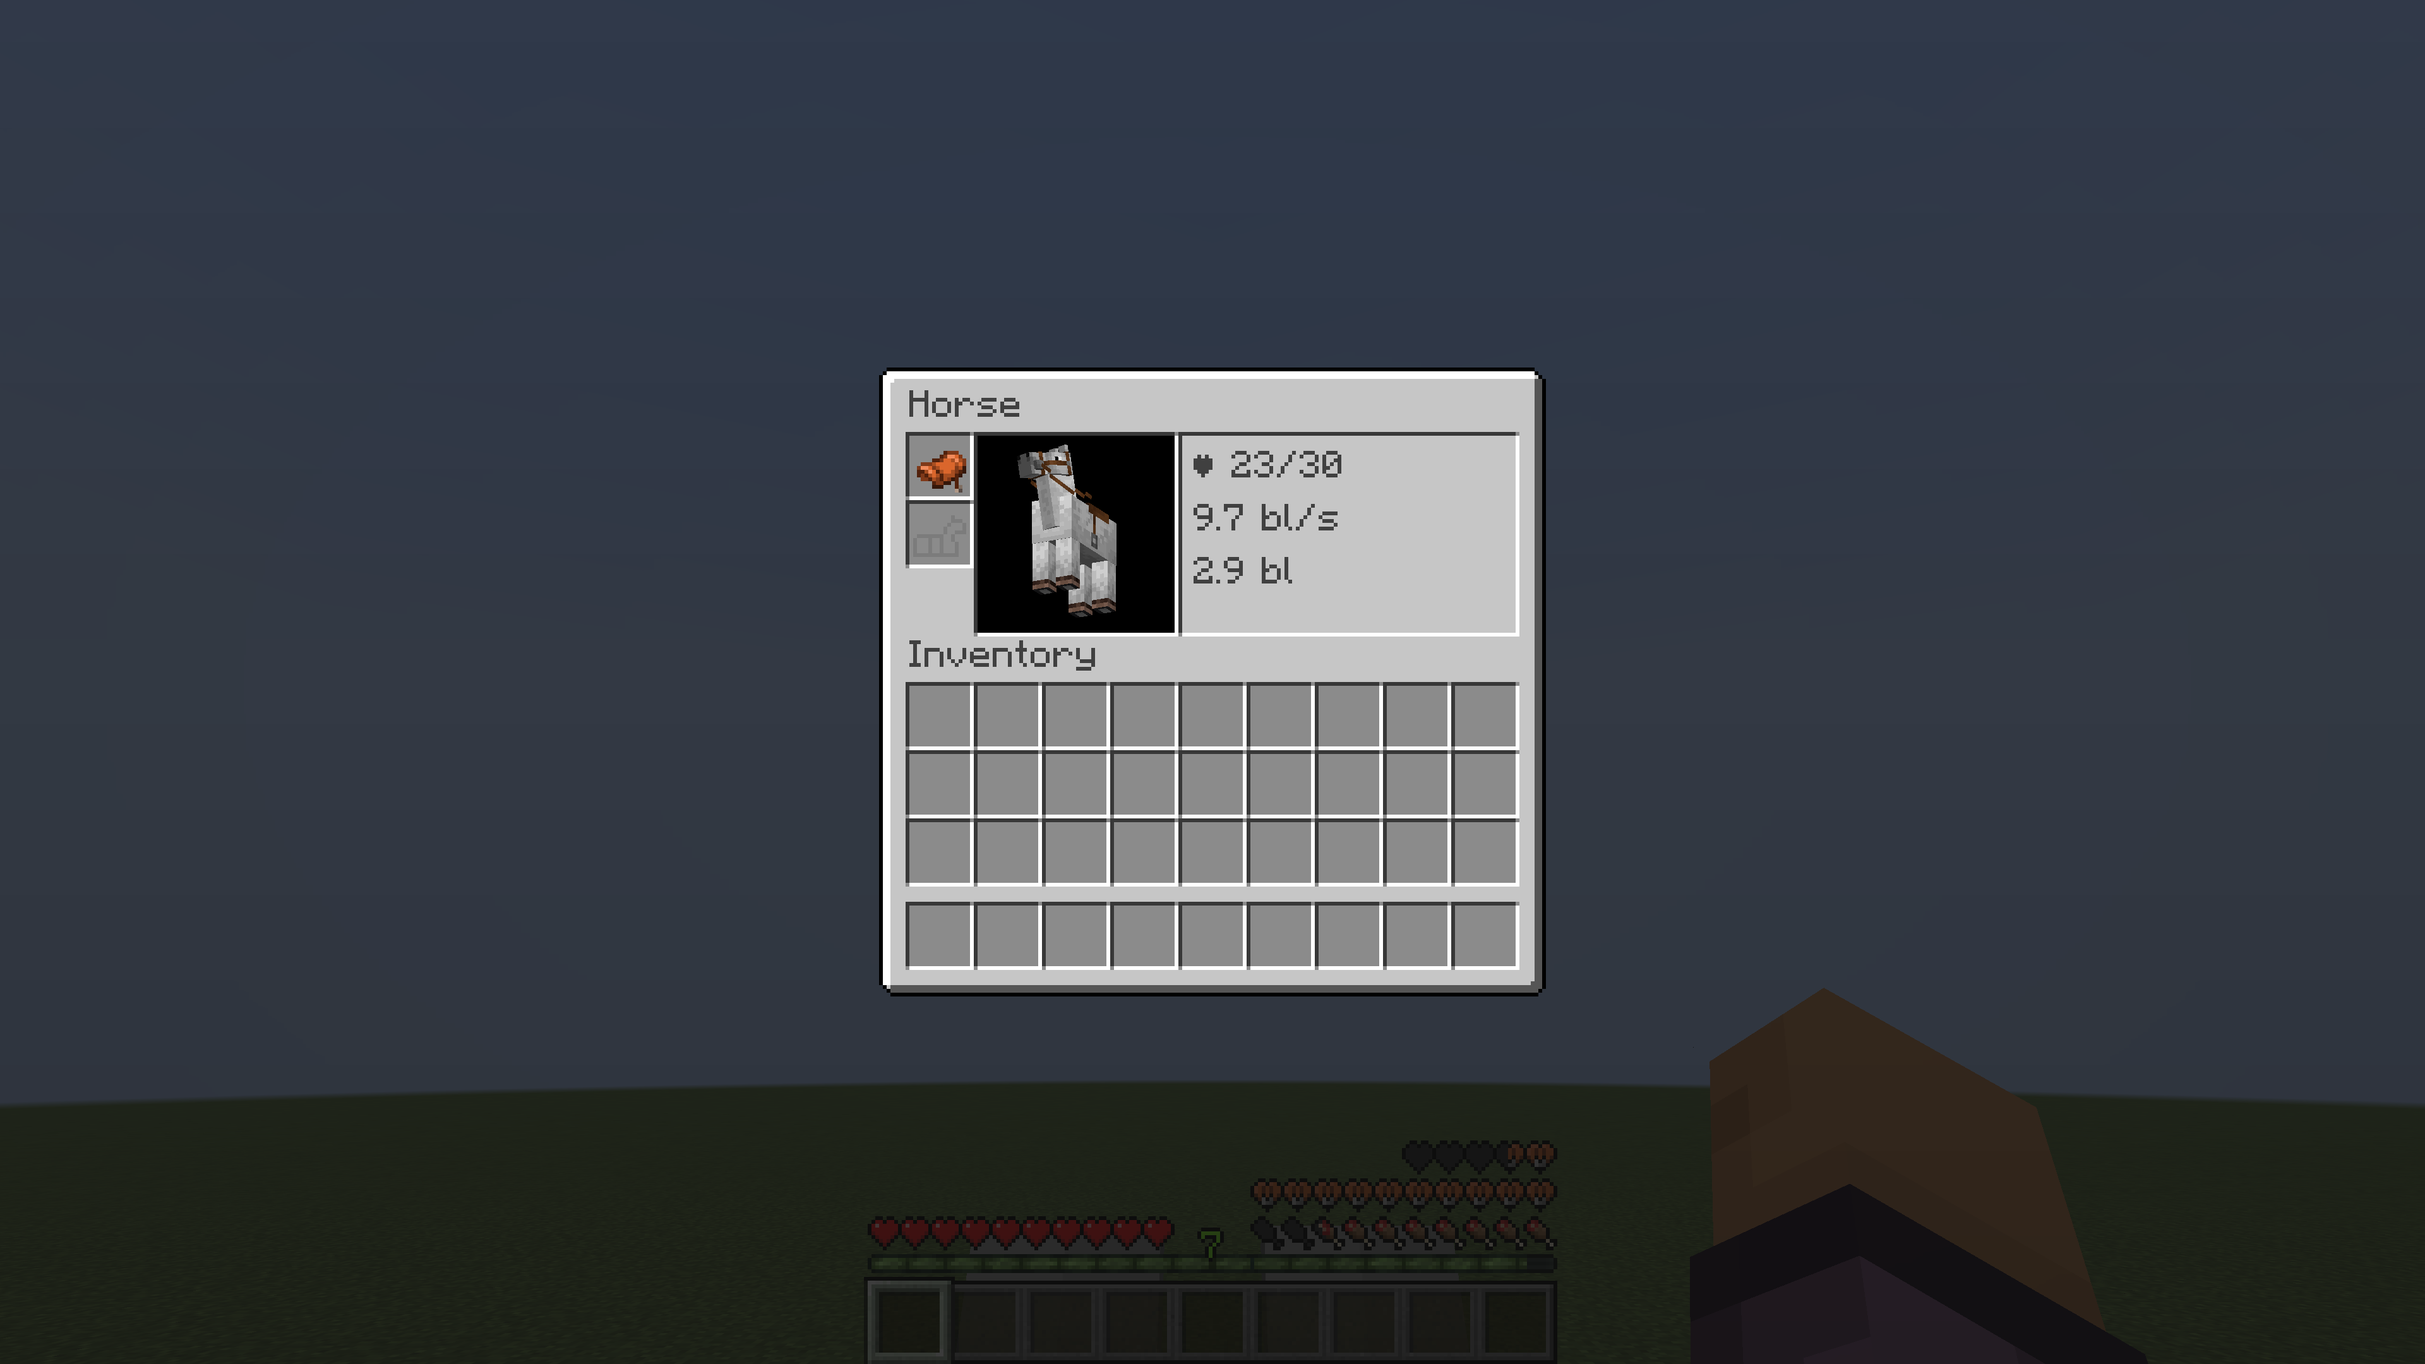
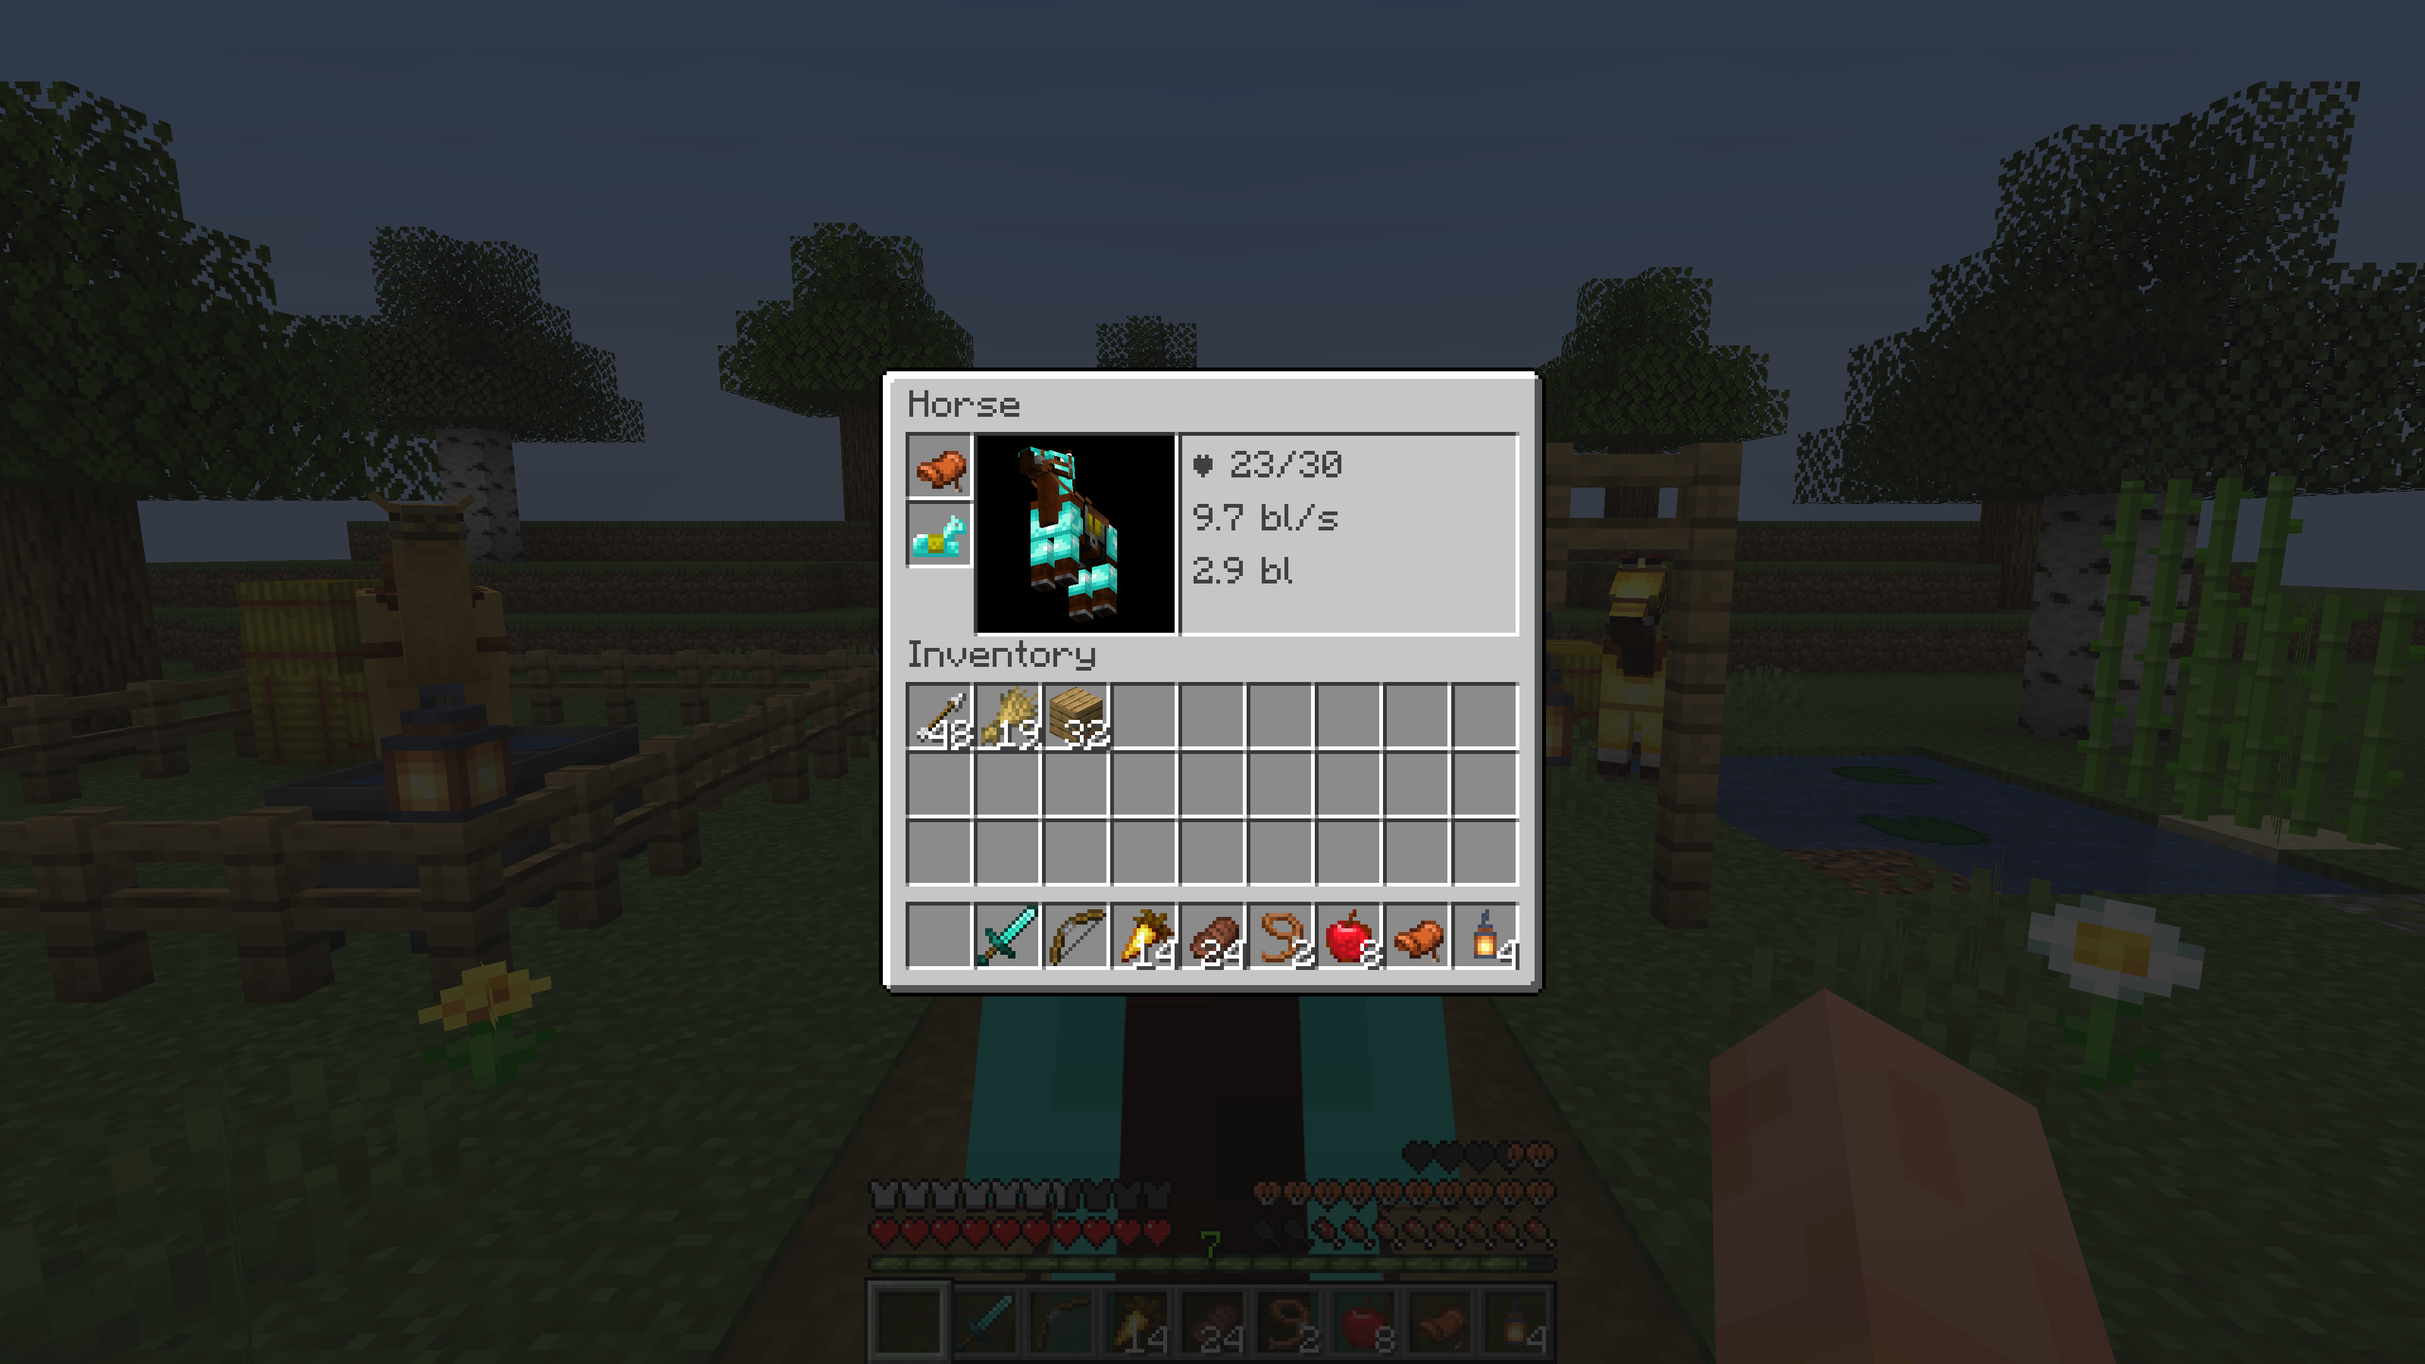
Improve store screenshots with survival scene and HUD stats

diff --git a/fabric/src/gametest/java/com/kasper/mounthud/gametest/MountHudGameTest.java b/fabric/src/gametest/java/com/kasper/mounthud/gametest/MountHudGameTest.java
@@ -37,7 +37,7 @@ public final class MountHudGameTest implements FabricClientGameTest {
     private static final List<String> TRANSLATIONS = List.of(
             "de_de", "es_es", "fr_fr", "it_it", "ja_jp", "ko_kr", "pl_pl", "pt_br", "tr_tr", "uk_ua", "zh_cn");
     /** The horse has 30 health (two rows of mount hearts), 0.225 speed (9.7 bl/s) and 0.7 jump strength (2.9 bl). */
-    private static final String HORSE = "minecraft:horse 0.5 -60 2.5 {Tame:1b,Health:23f,"
+    private static final String HORSE = "minecraft:horse 0.5 -60 2.5 {Tame:1b,Variant:3,Rotation:[0f,0f],Health:23f,"
             + "attributes:[{id:\"minecraft:max_health\",base:30d},"
             + "{id:\"minecraft:movement_speed\",base:0.225d},"
             + "{id:\"minecraft:jump_strength\",base:0.7d}],"
@@ -113,6 +113,8 @@ public final class MountHudGameTest implements FabricClientGameTest {
 
     private void left(ClientGameTestContext context, TestServerContext server, String prefix) {
         server.runCommand("item replace entity @a armor.chest with minecraft:iron_chestplate");
+        server.runCommand("item replace entity @a armor.legs with minecraft:iron_leggings");
+        server.runCommand("item replace entity @a armor.feet with minecraft:iron_boots");
         context.waitTicks(3);
         apply(context, s -> s.heartsPosition = HeartsPosition.LEFT);
         BufferedImage modded = shot(context, prefix + "left");
@@ -122,6 +124,8 @@ public final class MountHudGameTest implements FabricClientGameTest {
         apply(context, s -> s.enabled = false);
         BufferedImage vanilla = shot(context, prefix + "left_vanilla");
         server.runCommand("item replace entity @a armor.chest with minecraft:air");
+        server.runCommand("item replace entity @a armor.legs with minecraft:air");
+        server.runCommand("item replace entity @a armor.feet with minecraft:air");
         expect(row.hearts(modded) > row.minHearts(), "no mount hearts above the armor (" + row.hearts(modded) + " heart pixels)");
         expect(row.hearts(vanilla) < row.minHearts(), "the vanilla HUD has hearts above the armor, the check looks at the wrong place");
     }
@@ -192,35 +196,160 @@ public final class MountHudGameTest implements FabricClientGameTest {
 
     /** The pictures for the project pages, 3840x2160 at a large GUI scale so the HUD reads at a glance. */
     private void storeScreenshots(ClientGameTestContext context, TestServerContext server) {
+        context.runOnClient(mc -> mc.options.renderDistance().set(8));
+        buildStoreScene(server);
         context.getInput().resizeWindow(3840, 2160);
-        context.runOnClient(mc -> TestCompat.guiScale(mc, STORE_GUI_SCALE));
-        context.waitTicks(5);
-        apply(context, s -> s.heartsPosition = HeartsPosition.ABOVE_HUNGER);
+        context.runOnClient(mc -> {
+            TestCompat.guiScale(mc, STORE_GUI_SCALE);
+            mc.player.setYRot(0);
+            mc.player.setXRot(8);
+        });
+        context.waitTicks(20);
+
+        apply(context, s -> {
+            s.heartsPosition = HeartsPosition.ABOVE_HUNGER;
+            s.mountStats = MountStatsMode.HUD_AND_INVENTORY;
+        });
         shot(context, "store_above_hunger");
+
         context.getInput().holdKey(options -> options.keyJump);
         context.waitTicks(8);
         shot(context, "store_jump_bar");
         context.getInput().releaseKey(options -> options.keyJump);
         context.waitTicks(30);
-        server.runCommand("item replace entity @a armor.chest with minecraft:iron_chestplate");
+
+        context.runOnClient(mc -> {
+            mc.player.setYRot(0);
+            mc.player.setXRot(8);
+        });
+        context.waitTicks(2);
         apply(context, s -> s.heartsPosition = HeartsPosition.LEFT);
         shot(context, "store_left");
-        server.runCommand("item replace entity @a armor.chest with minecraft:air");
+
         apply(context, s -> s.enabled = false);
         shot(context, "store_vanilla");
+
+        server.runCommand("item replace entity @e[type=minecraft:horse,limit=1] armor.body with minecraft:diamond_horse_armor");
         apply(context, s -> { });
         context.runOnClient(mc -> mc.player.sendOpenInventory());
         context.waitFor(mc -> TestCompat.screen(mc) instanceof HorseInventoryScreen, 200);
-        context.waitTicks(2);
+        context.waitTicks(3);
         context.takeScreenshot("store_inventory");
         context.runOnClient(mc -> mc.player.closeContainer());
-        context.waitTicks(2);
+        server.runCommand("item replace entity @e[type=minecraft:horse,limit=1] armor.body with minecraft:air");
+        context.waitTicks(3);
+
         context.setScreen(() -> new SettingsScreen(null));
         context.takeScreenshot("store_settings");
         context.setScreen(() -> null);
         context.runOnClient(mc -> TestCompat.guiScale(mc, 0));
         context.getInput().resizeWindow(854, 480);
         context.waitTicks(2);
+    }
+
+    /** Builds a countryside road, paddock, pond, trees and hills in front of the player for store screenshots. */
+    private static void buildStoreScene(TestServerContext server) {
+        server.runCommand("item replace entity @a armor.chest with minecraft:iron_chestplate");
+        server.runCommand("item replace entity @a armor.legs with minecraft:iron_leggings");
+        server.runCommand("item replace entity @a armor.feet with minecraft:iron_boots");
+
+        // Rolling hills on the horizon (z = 22..42) with staggered grass edges so the skyline looks organic
+        server.runCommand("fill 4 -60 23 26 -60 39 minecraft:grass_block");
+        server.runCommand("fill 7 -60 21 19 -60 23 minecraft:grass_block");
+        server.runCommand("fill 6 -59 25 24 -59 37 minecraft:grass_block");
+        server.runCommand("fill 9 -59 23 17 -59 25 minecraft:grass_block");
+        server.runCommand("fill 9 -58 27 21 -58 35 minecraft:grass_block");
+
+        server.runCommand("fill -26 -60 23 -4 -60 39 minecraft:grass_block");
+        server.runCommand("fill -18 -60 21 -7 -60 23 minecraft:grass_block");
+        server.runCommand("fill -24 -59 25 -6 -59 37 minecraft:grass_block");
+        server.runCommand("fill -16 -59 23 -9 -59 25 minecraft:grass_block");
+        server.runCommand("fill -20 -58 27 -9 -58 35 minecraft:grass_block");
+
+        server.runCommand("fill -6 -60 27 6 -60 40 minecraft:grass_block");
+        server.runCommand("fill -4 -59 30 4 -59 38 minecraft:grass_block");
+
+        // Winding country road heading South (+Z)
+        server.runCommand("fill -1 -61 0 1 -61 15 minecraft:dirt_path");
+        server.runCommand("fill -2 -61 13 0 -61 26 minecraft:dirt_path");
+        server.runCommand("setblock 0 -61 7 minecraft:coarse_dirt");
+        server.runCommand("setblock -1 -61 10 minecraft:coarse_dirt");
+        server.runCommand("setblock 1 -61 12 minecraft:mossy_cobblestone");
+        server.runCommand("setblock -1 -61 16 minecraft:coarse_dirt");
+        server.runCommand("setblock -2 -61 20 minecraft:mossy_cobblestone");
+
+        // Left side (+X): oak fence paddock with hay bales, water trough and a saddled camel
+        server.runCommand("fill 4 -60 7 11 -60 15 minecraft:oak_fence replace minecraft:air");
+        server.runCommand("fill 5 -60 8 10 -60 14 minecraft:air");
+        server.runCommand("setblock 4 -60 10 minecraft:oak_fence_gate[facing=west,open=false]");
+        server.runCommand("setblock 4 -59 7 minecraft:lantern");
+        server.runCommand("setblock 4 -59 15 minecraft:lantern");
+        server.runCommand("setblock 11 -59 7 minecraft:lantern");
+        server.runCommand("setblock 5 -60 8 minecraft:water_cauldron[level=3]");
+        server.runCommand("setblock 5 -60 9 minecraft:water_cauldron[level=3]");
+        server.runCommand("setblock 9 -60 13 minecraft:hay_block[axis=y]");
+        server.runCommand("setblock 10 -60 13 minecraft:hay_block[axis=x]");
+        server.runCommand("setblock 10 -59 13 minecraft:hay_block[axis=y]");
+        server.runCommand("setblock 10 -60 14 minecraft:hay_block[axis=z]");
+        server.runCommand("summon minecraft:camel 7.5 -60 11.2 {NoAI:1b,Tame:1b,Rotation:[140f,4f],"
+                + "SaddleItem:{id:\"minecraft:saddle\",count:1},equipment:{saddle:{id:\"minecraft:saddle\",count:1}}}");
+
+        // Right side (-X): roadside lamp post, small pond with sugar cane, barrel, hay bales and a second horse
+        server.runCommand("fill -3 -60 8 -3 -58 8 minecraft:oak_fence");
+        server.runCommand("setblock -2 -58 8 minecraft:oak_fence");
+        server.runCommand("setblock -2 -59 8 minecraft:lantern[hanging=true]");
+        server.runCommand("fill -8 -61 9 -5 -61 13 minecraft:water");
+        server.runCommand("setblock -6 -60 10 minecraft:lily_pad");
+        server.runCommand("setblock -7 -60 12 minecraft:lily_pad");
+        server.runCommand("setblock -8 -61 8 minecraft:mossy_cobblestone");
+        server.runCommand("setblock -5 -61 9 minecraft:coarse_dirt");
+        server.runCommand("setblock -9 -61 10 minecraft:sand");
+        server.runCommand("fill -9 -60 10 -9 -59 10 minecraft:sugar_cane");
+        server.runCommand("fill -9 -60 11 -9 -58 11 minecraft:sugar_cane");
+        server.runCommand("setblock -4 -60 15 minecraft:barrel[facing=up]");
+        server.runCommand("setblock -5 -60 15 minecraft:hay_block[axis=y]");
+        server.runCommand("setblock -5 -60 16 minecraft:hay_block[axis=z]");
+        server.runCommand("summon minecraft:horse -4.2 -60 12.8 {NoAI:1b,Tame:1b,Variant:258,Rotation:[-145f,4f],"
+                + "SaddleItem:{id:\"minecraft:saddle\",count:1},equipment:{saddle:{id:\"minecraft:saddle\",count:1},"
+                + "body:{id:\"minecraft:golden_horse_armor\",count:1}}}");
+
+        // Trees framing the scene on both sides and on the background hills
+        plantTree(server, 13, -60, 13, "minecraft:oak_log", "minecraft:oak_leaves[persistent=true]");
+        plantTree(server, -11, -60, 14, "minecraft:birch_log", "minecraft:birch_leaves[persistent=true]");
+        plantTree(server, 9, -57, 28, "minecraft:oak_log", "minecraft:oak_leaves[persistent=true]");
+        plantTree(server, 17, -58, 25, "minecraft:birch_log", "minecraft:birch_leaves[persistent=true]");
+        plantTree(server, -11, -58, 28, "minecraft:oak_log", "minecraft:oak_leaves[persistent=true]");
+        plantTree(server, -18, -59, 24, "minecraft:oak_log", "minecraft:oak_leaves[persistent=true]");
+        plantTree(server, 2, -58, 33, "minecraft:birch_log", "minecraft:birch_leaves[persistent=true]");
+
+        // Wildflowers and meadow grass
+        int[][] grassSpots = {
+                {3, 5}, {2, 9}, {3, 12}, {2, 16}, {4, 18}, {6, 19}, {8, 18},
+                {-3, 6}, {-4, 7}, {-3, 11}, {-3, 18}, {-6, 17}, {-8, 16}
+        };
+        for (int[] g : grassSpots) {
+            server.runCommand("setblock " + g[0] + " -60 " + g[1] + " minecraft:short_grass");
+        }
+        server.runCommand("setblock 3 -60 6 minecraft:dandelion");
+        server.runCommand("setblock 2 -60 11 minecraft:poppy");
+        server.runCommand("setblock 5 -60 17 minecraft:cornflower");
+        server.runCommand("setblock -4 -60 6 minecraft:oxeye_daisy");
+        server.runCommand("setblock -3 -60 14 minecraft:dandelion");
+        server.runCommand("setblock -6 -60 15 minecraft:poppy");
+    }
+
+    private static void plantTree(TestServerContext server, int x, int y, int z, String log, String leaves) {
+        server.runCommand("fill " + (x - 2) + " " + (y + 3) + " " + (z - 2) + " " + (x + 2) + " " + (y + 4) + " " + (z + 2) + " " + leaves);
+        server.runCommand("setblock " + (x - 2) + " " + (y + 4) + " " + (z - 2) + " minecraft:air");
+        server.runCommand("setblock " + (x + 2) + " " + (y + 4) + " " + (z - 2) + " minecraft:air");
+        server.runCommand("setblock " + (x - 2) + " " + (y + 4) + " " + (z + 2) + " minecraft:air");
+        server.runCommand("setblock " + (x + 2) + " " + (y + 4) + " " + (z + 2) + " minecraft:air");
+        server.runCommand("fill " + (x - 1) + " " + (y + 5) + " " + (z - 1) + " " + (x + 1) + " " + (y + 5) + " " + (z + 1) + " " + leaves);
+        server.runCommand("setblock " + (x - 1) + " " + (y + 5) + " " + (z - 1) + " minecraft:air");
+        server.runCommand("setblock " + (x + 1) + " " + (y + 5) + " " + (z - 1) + " minecraft:air");
+        server.runCommand("fill " + (x - 1) + " " + (y + 6) + " " + z + " " + (x + 1) + " " + (y + 6) + " " + z + " " + leaves);
+        server.runCommand("fill " + x + " " + (y + 6) + " " + (z - 1) + " " + x + " " + (y + 6) + " " + (z + 1) + " " + leaves);
+        server.runCommand("fill " + x + " " + y + " " + z + " " + x + " " + (y + 4) + " " + z + " " + log);
     }
 
     // --- Helpers --------------------------------------------------------------------------------
@@ -232,6 +361,18 @@ public final class MountHudGameTest implements FabricClientGameTest {
         server.runCommand("xp set @a 7 levels");
         server.runCommand("xp add @a 20 points");
         server.runCommand("effect give @a minecraft:hunger 2 200 true");
+        // Populate hotbar slots 1..8 and inventory early so recipe unlock toasts finish before screenshots
+        server.runCommand("item replace entity @a hotbar.1 with minecraft:diamond_sword");
+        server.runCommand("item replace entity @a hotbar.2 with minecraft:bow");
+        server.runCommand("item replace entity @a hotbar.3 with minecraft:golden_carrot 14");
+        server.runCommand("item replace entity @a hotbar.4 with minecraft:cooked_beef 24");
+        server.runCommand("item replace entity @a hotbar.5 with minecraft:lead 2");
+        server.runCommand("item replace entity @a hotbar.6 with minecraft:apple 8");
+        server.runCommand("item replace entity @a hotbar.7 with minecraft:saddle");
+        server.runCommand("item replace entity @a hotbar.8 with minecraft:lantern 4");
+        server.runCommand("item replace entity @a inventory.0 with minecraft:arrow 48");
+        server.runCommand("item replace entity @a inventory.1 with minecraft:wheat 19");
+        server.runCommand("item replace entity @a inventory.2 with minecraft:oak_planks 32");
         context.waitFor(mc -> mc.player.getVehicle() != null, 200);
         context.waitTicks(80);
         // Look over the horse's head, so the HUD stands on the sky
